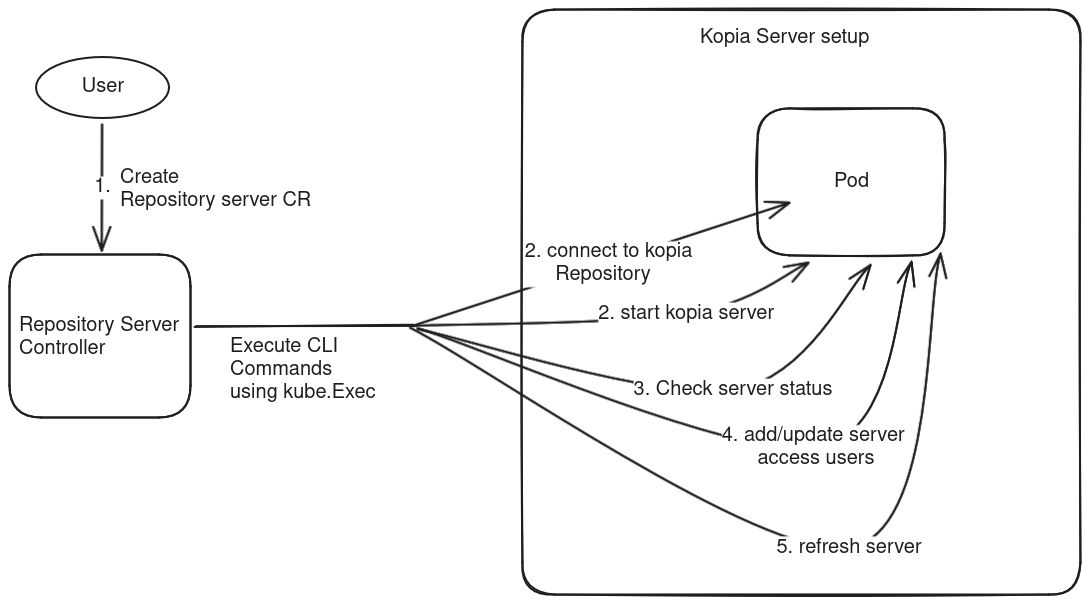
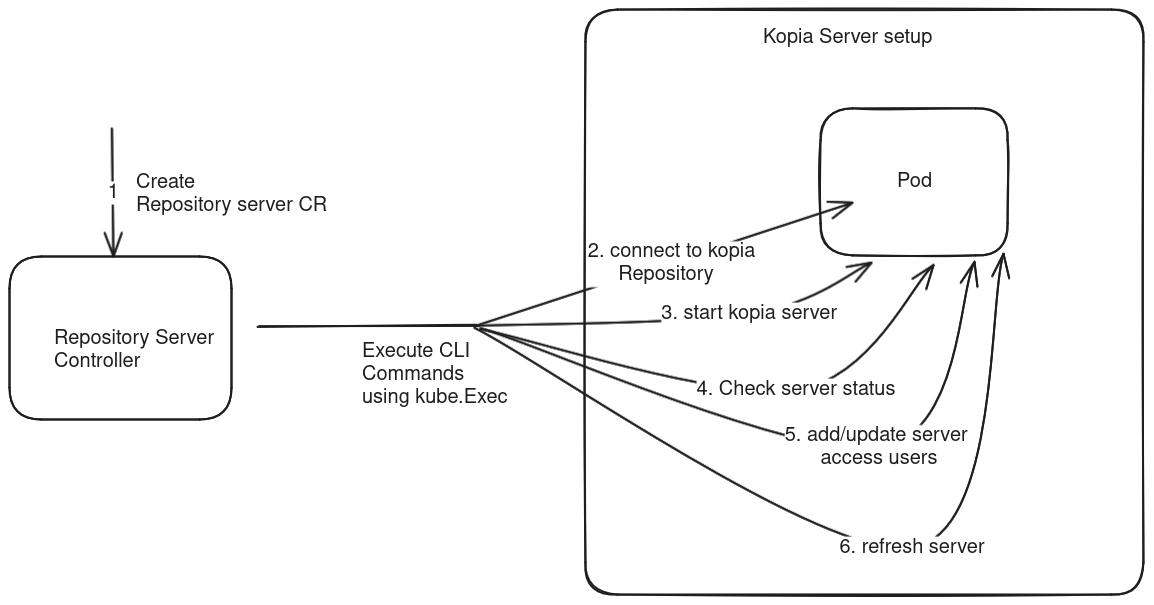
address review comments

diff --git a/design/replace-CLI-with-SDK.md b/design/replace-CLI-with-SDK.md
@@ -14,21 +14,24 @@
 
 # Motivation
 
-Kanister uses a kubernetes custom controller makes use of kopia as a primary backup and restore tool. 
+Kanister uses a Kubernetes custom controller makes use of Kopia as a primary backup and restore tool. 
 The detailed design of the customer controller can be found [here](https://github.com/kanisterio/kanister/blob/master/design/kanister-kopia-integration.md)
 
-The custom controller called as repository server controller currently uses kopia CLI to perform the kopia operations. All the
-operations are executed inside a pod using the `kubectl exec` function. `kubectl exec` can be flaky for long running operations
-and gives less control over command that is being executed. 
+The custom controller called as repository server controller currently uses Kopia CLI to perform the Kopia operations. All the
+operations are executed inside a pod using the `kubectl exec` function. 
 
-The goal over here is to build a kopia server programatically and reduce the dependency on kopia CLI in turn reducing the usage of 
-`kubectl exec` by using kopia SDK and gain more flexibility over the operations
+We can get following benefits if we start using Kopia SDK instead of CLI:
+- Better error handling
+- Upgrading/Maintaining SDK libraries is better than using CLI
+
+The goal over here is to start the kopia server by executing a pre-built binary. The binary would execute most of the 
+operations to start the server using kopia SDK and reduce the dependency on Kopia CLI and gain more flexibility over the operations
 
 ## Scope
-1. Implement a library that provides wraps the SDK functions provided by kopia to connect to underlying storage providers - S3, Azure, GCP, Filestore
-2. Build another pkg on top of the library implemented in #1 that can be used to perform repository operations
+1. Implement a library that wraps the SDK functions provided by Kopia to connect to underlying storage providers - S3, Azure, GCP, Filestore
+2. Build another library on top of the library implemented in #1 that can be used to perform repository operations
 3. Modify the repository server controller to run a pod that executes a custom image. The binary would take all the
-necessary steps to make the kopia server ready using kopia SDK and kopia CLI. 
+necessary steps to make the Kopia server ready using Kopia SDK and Kopia CLI. 
 
 ## High Level Design
 
@@ -78,69 +81,10 @@ func New(storageType StorageType) Storage {
 
 ```
 
-
-##### Example implementation of storage interface
-
-```go
-
-package storage
-
-import (
-	"context"
-
-	"github.com/kanisterio/kanister/pkg/kopialib"
-	"github.com/kanisterio/kanister/pkg/utils"
-	"github.com/kopia/kopia/repo/blob"
-	"github.com/kopia/kopia/repo/blob/s3"
-)
-
-type s3Storage struct {
-	options *s3.Options
-	create  bool
-}
-
-// This uses `github.com/kopia/kopia/repo/blob/s3` of kopia
-// to connect to underlying storage
-func (s *s3Storage) Connect() (blob.Storage, error) {
-	return s3.New(context.Background(), s.Options, s.create)
-}
-
-// WithOptions function can be used if someone wants
-// to set the s3 configuration directly using
-// `github.com/kopia/kopia/repo/blob/s3` pkg
-func (s *s3Storage) WithOptions(opts s3.Options) {
-	s.options = &opts
-}
-
-// WithCreate function can be used
-// if someone wants to create the underlying storage
-func (s *s3Storage) WithCreate(create bool) {
-	s.create = create
-}
-
-// SetOptions function is a generic way to set the configuration
-// of underlying storage using a map
-func (s *s3Storage) SetOptions(ctx context.Context, options map[string]string) {
-	s.options = &s3.Options{
-		BucketName:      options[kopialib.BucketKey],
-		Endpoint:        options[kopialib.S3EndpointKey],
-		Prefix:          options[kopialib.PrefixKey],
-		Region:          options[kopialib.S3RegionKey],
-		SessionToken:    options[kopialib.S3TokenKey],
-		AccessKeyID:     options[kopialib.S3AccessKey],
-		SecretAccessKey: options[kopialib.S3SecretAccessKey],
-	}
-	s.options.DoNotUseTLS, _ = utils.GetBoolOrDefault(options[kopialib.DoNotUseTLS], true)
-	s.options.DoNotVerifyTLS, _ = utils.GetBoolOrDefault(options[kopialib.DoNotVerifyTLS], true)
-}
-
-```
-
-
 #### Repository pkg
 
-This pkg would be a wrapper over the `storage pkg` built above and the kopia repositoy pkg `github.com/kopia/kopia/repo` 
-provided by kopia SDK
+This pkg would be a wrapper over the `storage pkg` built above and the Kopia repositoy pkg `github.com/kopia/kopia/repo` 
+provided by Kopia SDK
 
 ```go
 
@@ -153,7 +97,7 @@ type Repository struct {
 	storageType storage.StorageType
 }
 
-// Create repository using kopia SDK
+// Create repository using Kopia SDK
 func (r *Repository) Create(opts *repo.NewRepositoryOptions) (err error) {
 	storage, err := r.st.Connect()
 	if err != nil {
@@ -162,7 +106,7 @@ func (r *Repository) Create(opts *repo.NewRepositoryOptions) (err error) {
 	return repo.Initialize(context.Background(), storage, opts, r.password)
 }
 
-// Connect to the repository using kopia SDK
+// Connect to the repository using Kopia SDK
 func (r *Repository) Connect(opts *repo.ConnectOptions) (err error) {
 	storage, err := r.st.Connect()
 	if err != nil {
@@ -199,7 +143,7 @@ func repositoryConfigFileName(configFile string) string {
 ![Alt text](images/kopia-CLI-workflow.png?raw=true "Kanister Kopia Integration using Kopia CLI")
 
 Above diagram explains the current workflow repository server controller
-uses to start the kopia repository server. All the commands are executed from the controller pod inside 
+uses to start the Kopia repository server. All the commands are executed from the controller pod inside 
 the respoitory server pod using `kube.exec`. The repository server pod that is created by controller
 uses `kanister-tools` image
 
@@ -210,11 +154,11 @@ uses `kanister-tools` image
 
 
 As shown in the figure we will be building a custom image which is going have this workflow:
-1. Start the kopia repository server in `--async-repo-connect` mode that means the server would be started without
-connecting to the repository in an async mode. Existing approach starts the server only after the connection to kopia repository
-is successful. Kopia SDK currently does not have an exported function to start the kopia server. So we would still be using Kopia
+1. Start the Kopia repository server in `--async-repo-connect` mode that means the server would be started without
+connecting to the repository in an async mode. Existing approach starts the server only after the connection to Kopia repository
+is successful. Kopia SDK currently does not have an exported function to start the Kopia server. So we would still be using Kopia
 CLI to start the server
-2. Check kopia server status using Kopia SDK wrappers explained in section [Kopia SDK wrappers](#kopia-sdk-wrappers)
+2. Check Kopia server status using Kopia SDK wrappers explained in section [Kopia SDK wrappers](#kopia-sdk-wrappers)
 2. Connect to Kopia repository using Kopia SDK wrappers
 3. Add or Update server users using Kopia SDK wrappers
 4. Refresh server using Kopia SDK wrappers

diff --git a/design/kanister-kopia-integration.md b/design/kanister-kopia-integration.md
@@ -604,7 +604,7 @@ If misplaced, Kanister will not be able to recover these credentials.
 
 ### Replace Kopia CLI with SDK
 
-Currently we are using Kopia CLI to perform the repository and kopia repository server operations in kanister.
+Currently we are using Kopia CLI to perform the repository and kopia repository server operations in Kanister.
 The repository controller creates a pod, executes commands through `kube.exec` on the pod to perform
 repository operations. The commands include: 
 - repo connect 
@@ -612,6 +612,5 @@ repository operations. The commands include:
 - add users 
 - refresh server 
 
-The CLI commands executed using kube.exec can be flakey for long running commands. Kopia provides a SDK to
-perform repository operations which can be used instead of CLI. The detailed design is explained in the document
+Kopia provides a SDK to perform repository operations which can be used instead of CLI. The detailed design is explained in the document
 [Replace Kopia CLI with Kopia SDK](https://github.com/kanisterio/kanister/blob/master/design/replace-CLI-with-SDK.md).
